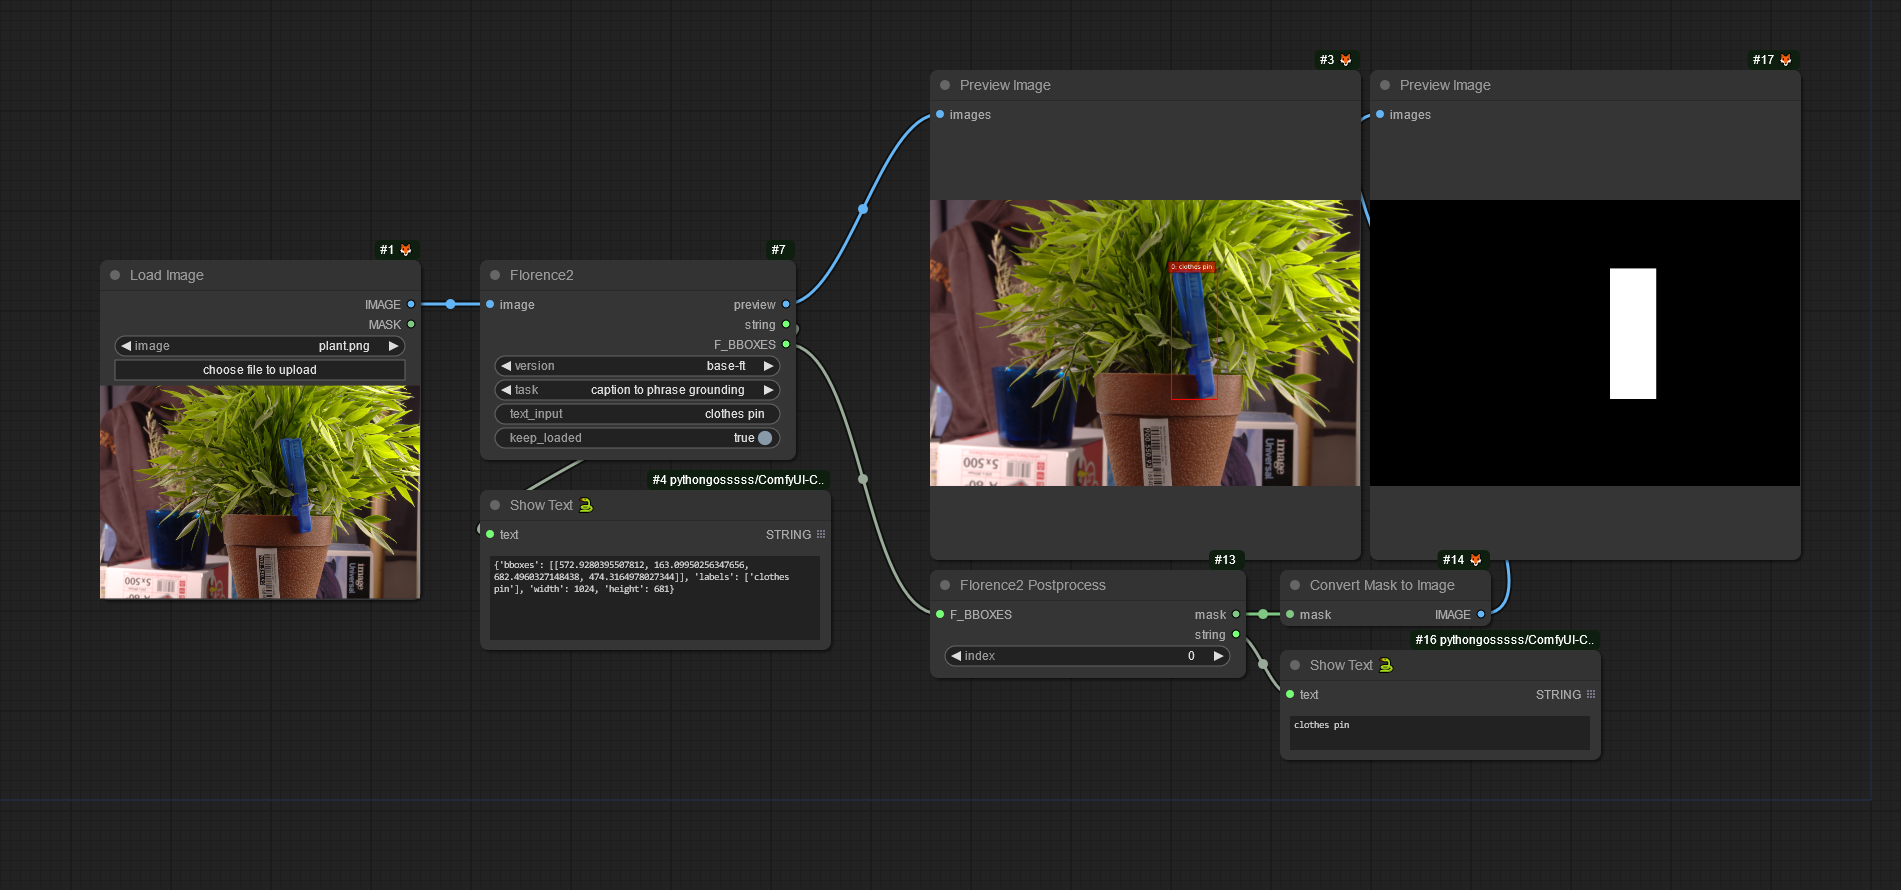
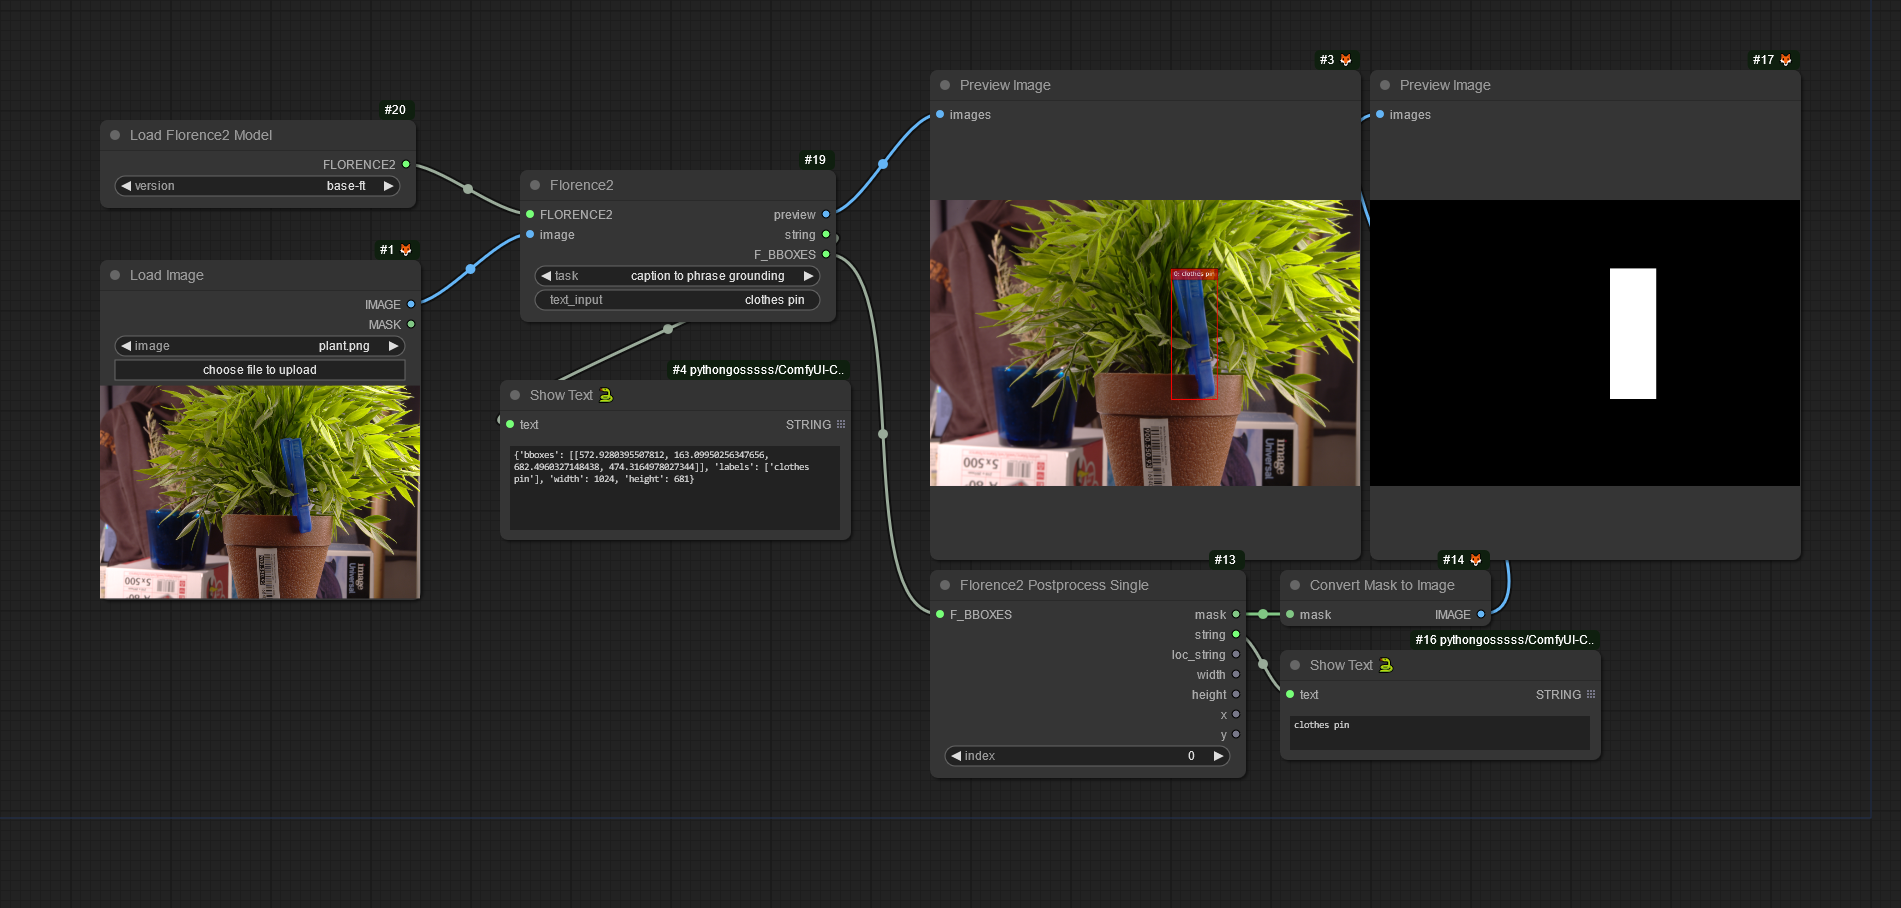
moved model loading to separate node

diff --git a/Florence.py b/Florence.py
@@ -118,7 +118,7 @@ TASK_OPTIONS = [
     "OCR with region"
     ]
 
-class Florence2:
+class LoadFlorence2Model:
     def __init__(self):
         self.model = None
         self.processor = None
@@ -129,11 +129,39 @@ class Florence2:
     def INPUT_TYPES(s):
         return {
             "required": {
-                "image": ("IMAGE",),
                 "version": (["base", "base-ft", "large", "large-ft"],),
+            },
+        }
+    
+    RETURN_TYPES = ("FLORENCE2", )
+    FUNCTION = "load"
+    CATEGORY = "Florence2"
+    
+    def load(self, version):
+        
+        if self.version != version:
+            self.model, self.processor = load_model(version, self.device)
+            self.version = version
+        
+        return ({'model': self.model, 'processor': self.processor, 'version': self.version, 'device': self.device}, )
+
+class Florence2:
+    def __init__(self):
+        self.model = None
+        self.processor = None
+        self.version = None
+        self.device = None
+    
+    @classmethod
+    def INPUT_TYPES(s):
+        return {
+            "required": {
+                "FLORENCE2": ("FLORENCE2",),
+                "image": ("IMAGE",),
+                # "version": (["base", "base-ft", "large", "large-ft"],),
                 "task": (TASK_OPTIONS, {"default": TASK_OPTIONS[0]}),
                 "text_input": ("STRING", {}),
-                "keep_loaded": ("BOOLEAN", {"default": True,}),
+                # "keep_loaded": ("BOOLEAN", {"default": True,}),
             },
         }
     
@@ -142,13 +170,18 @@ class Florence2:
     FUNCTION = "apply"
     CATEGORY = "Florence2"
     
-    def apply(self, image, version, task, text_input, keep_loaded):
+    def apply(self, FLORENCE2, image, task, text_input):
         img = 255. * image[0].cpu().numpy()
         img = Image.fromarray(np.clip(img, 0, 255).astype(np.uint8)) 
         
-        if self.version != version:
-            self.model, self.processor = load_model(version, self.device)
-            self.version = version
+        # if self.version != version:
+            # self.model, self.processor = load_model(version, self.device)
+            # self.version = version
+        
+        self.model = FLORENCE2['model']
+        self.processor = FLORENCE2['processor']
+        self.version = FLORENCE2['version']
+        self.device = FLORENCE2['device']
         
         results, output_image = self.process_image(img, task, text_input)
         # bboxes, labels OR polygons, labels
@@ -162,13 +195,13 @@ class Florence2:
             output_image = np.asarray(output_image).astype(np.float32) / 255
             output_image = torch.from_numpy(output_image).unsqueeze(0)
         
-        if not keep_loaded:
-            self.model = None
-            self.processor = None
-            self.version = None
-            gc.collect()
-            if self.device == "cuda":
-                torch.cuda.empty_cache()
+        # if not keep_loaded:
+            # self.model = None
+            # self.processor = None
+            # self.version = None
+            # gc.collect()
+            # if self.device == "cuda":
+                # torch.cuda.empty_cache()
         
         return (output_image, str(results), results)
     
@@ -407,12 +440,14 @@ class Florence2PostprocessAll:
         return (mask, label, loc_string, x2_c - x1_c + 1, y2_c - y1_c + 1, x1_c, y1_c)
 
 NODE_CLASS_MAPPINGS = {
+    "LoadFlorence2Model": LoadFlorence2Model,
     "Florence2": Florence2,
     "Florence2Postprocess": Florence2Postprocess,
     "Florence2PostprocessAll": Florence2PostprocessAll,
     }
 
 NODE_DISPLAY_NAME_MAPPINGS = {
+    "LoadFlorence2Model": "Load Florence2 Model",
     "Florence2": "Florence2",
     "Florence2Postprocess": "Florence2 Postprocess Single",
     "Florence2PostprocessAll": "Florence2 Postprocess All",
